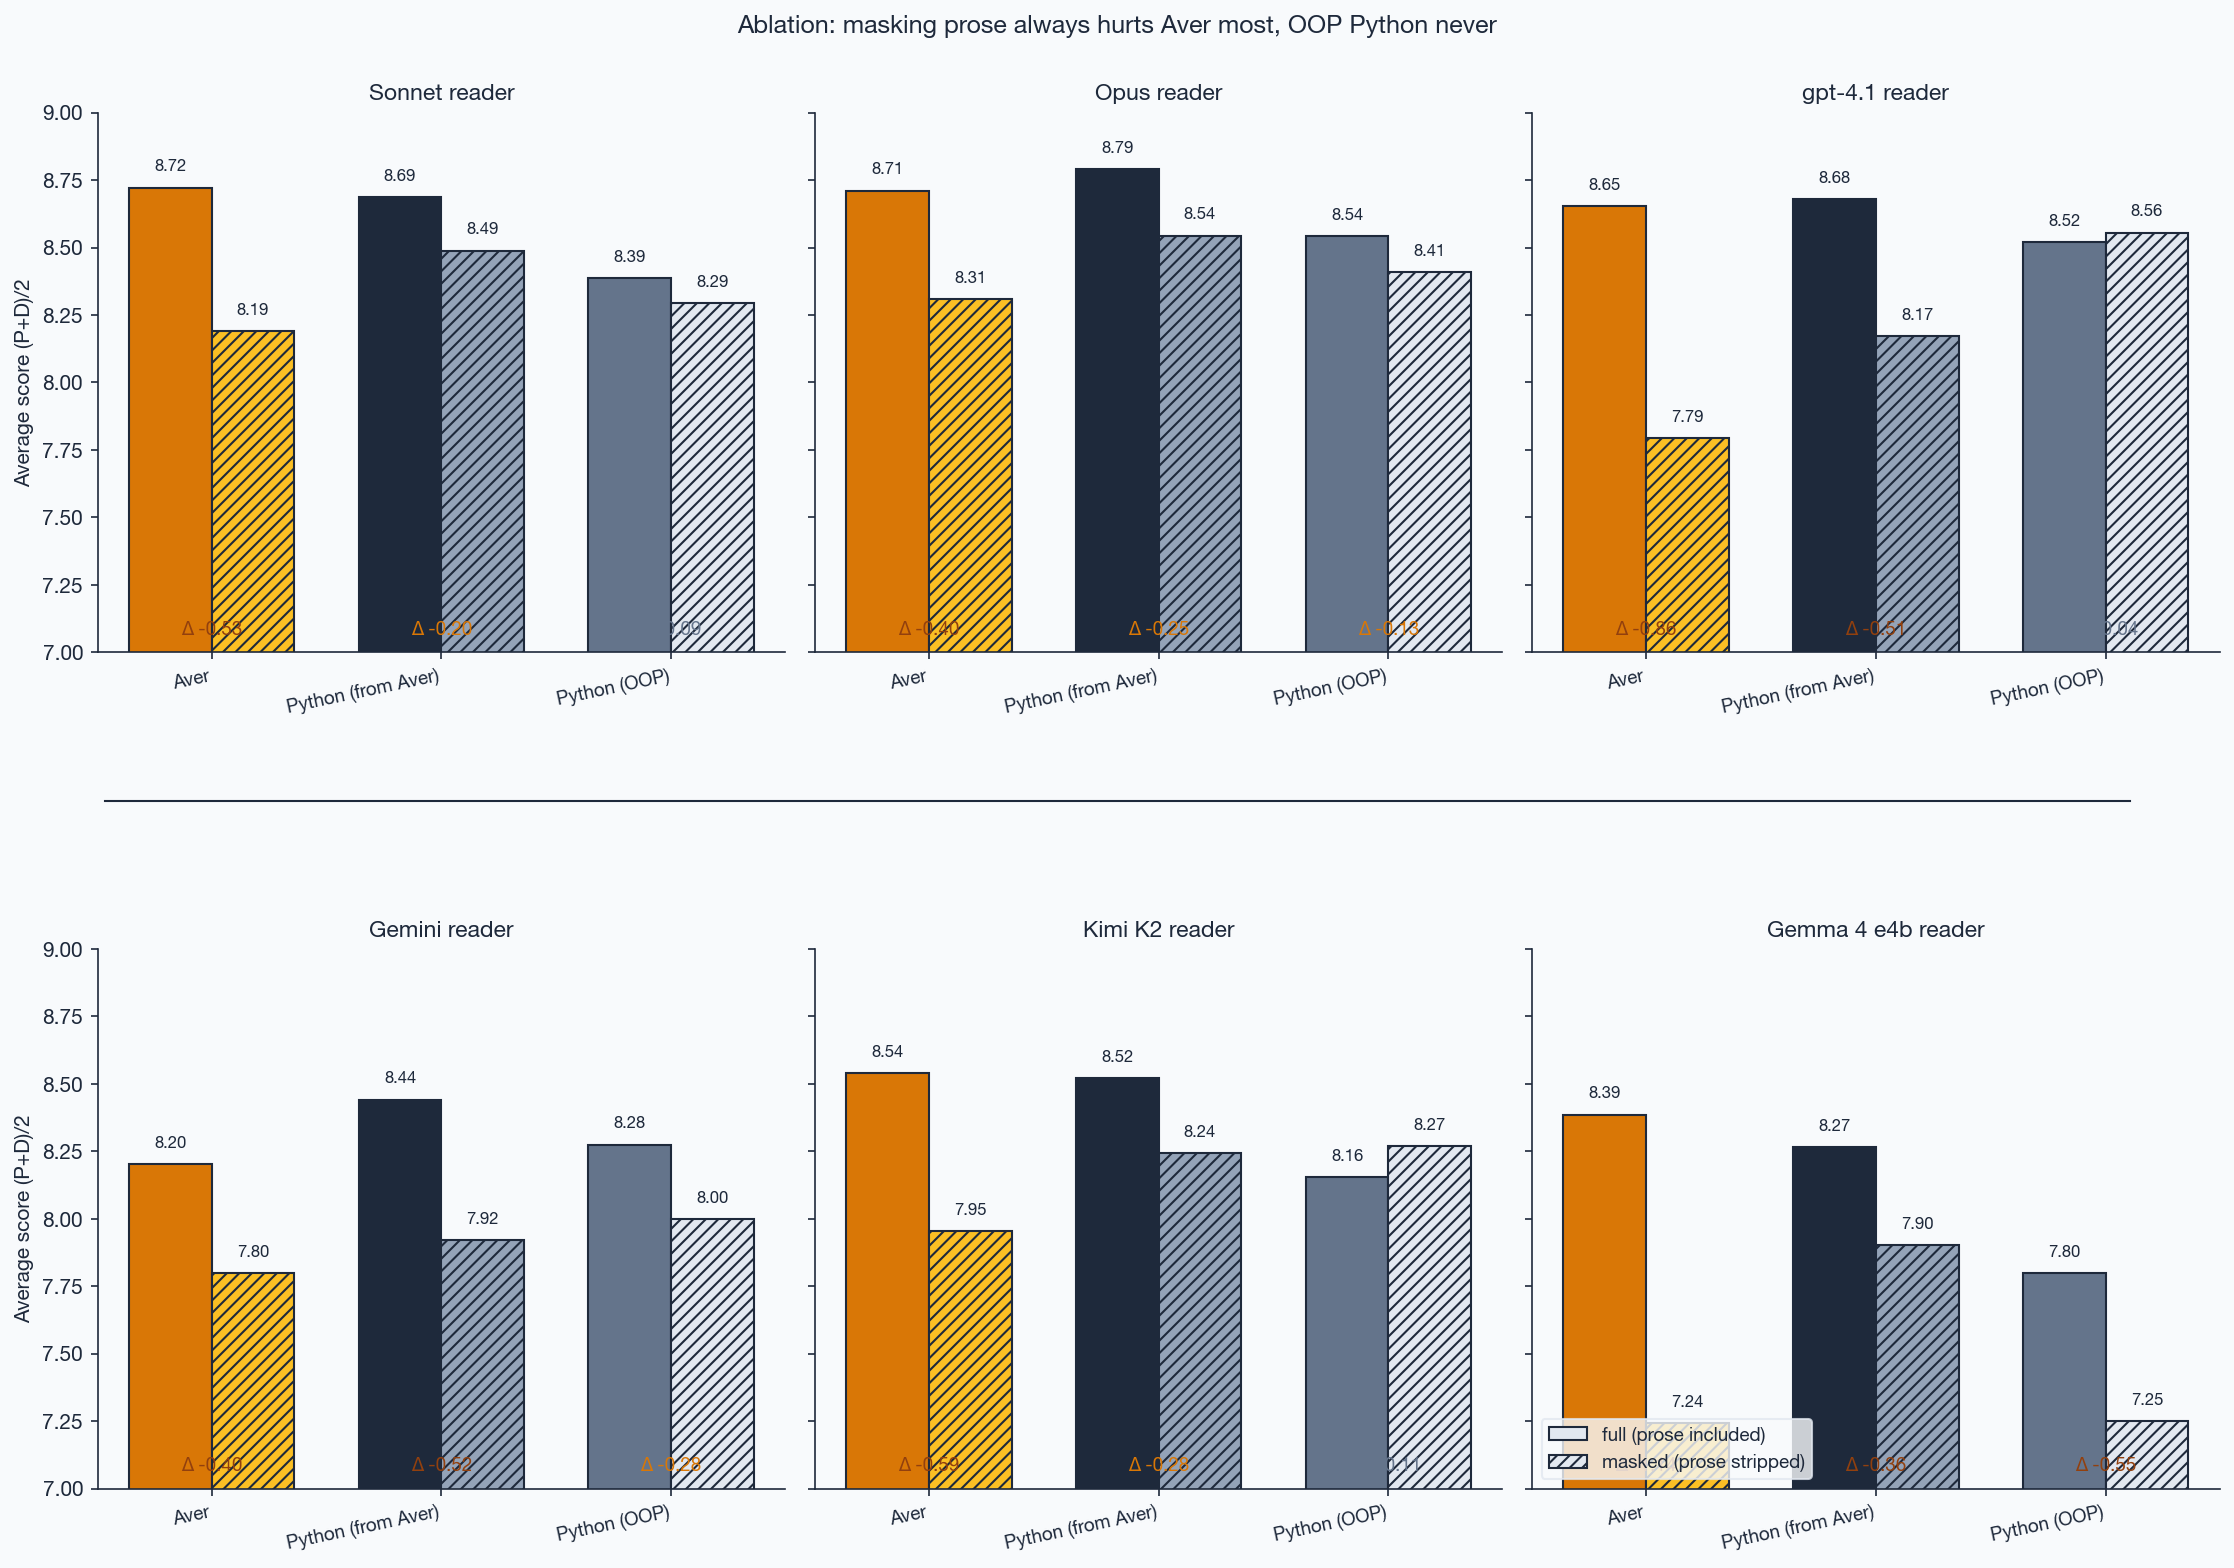
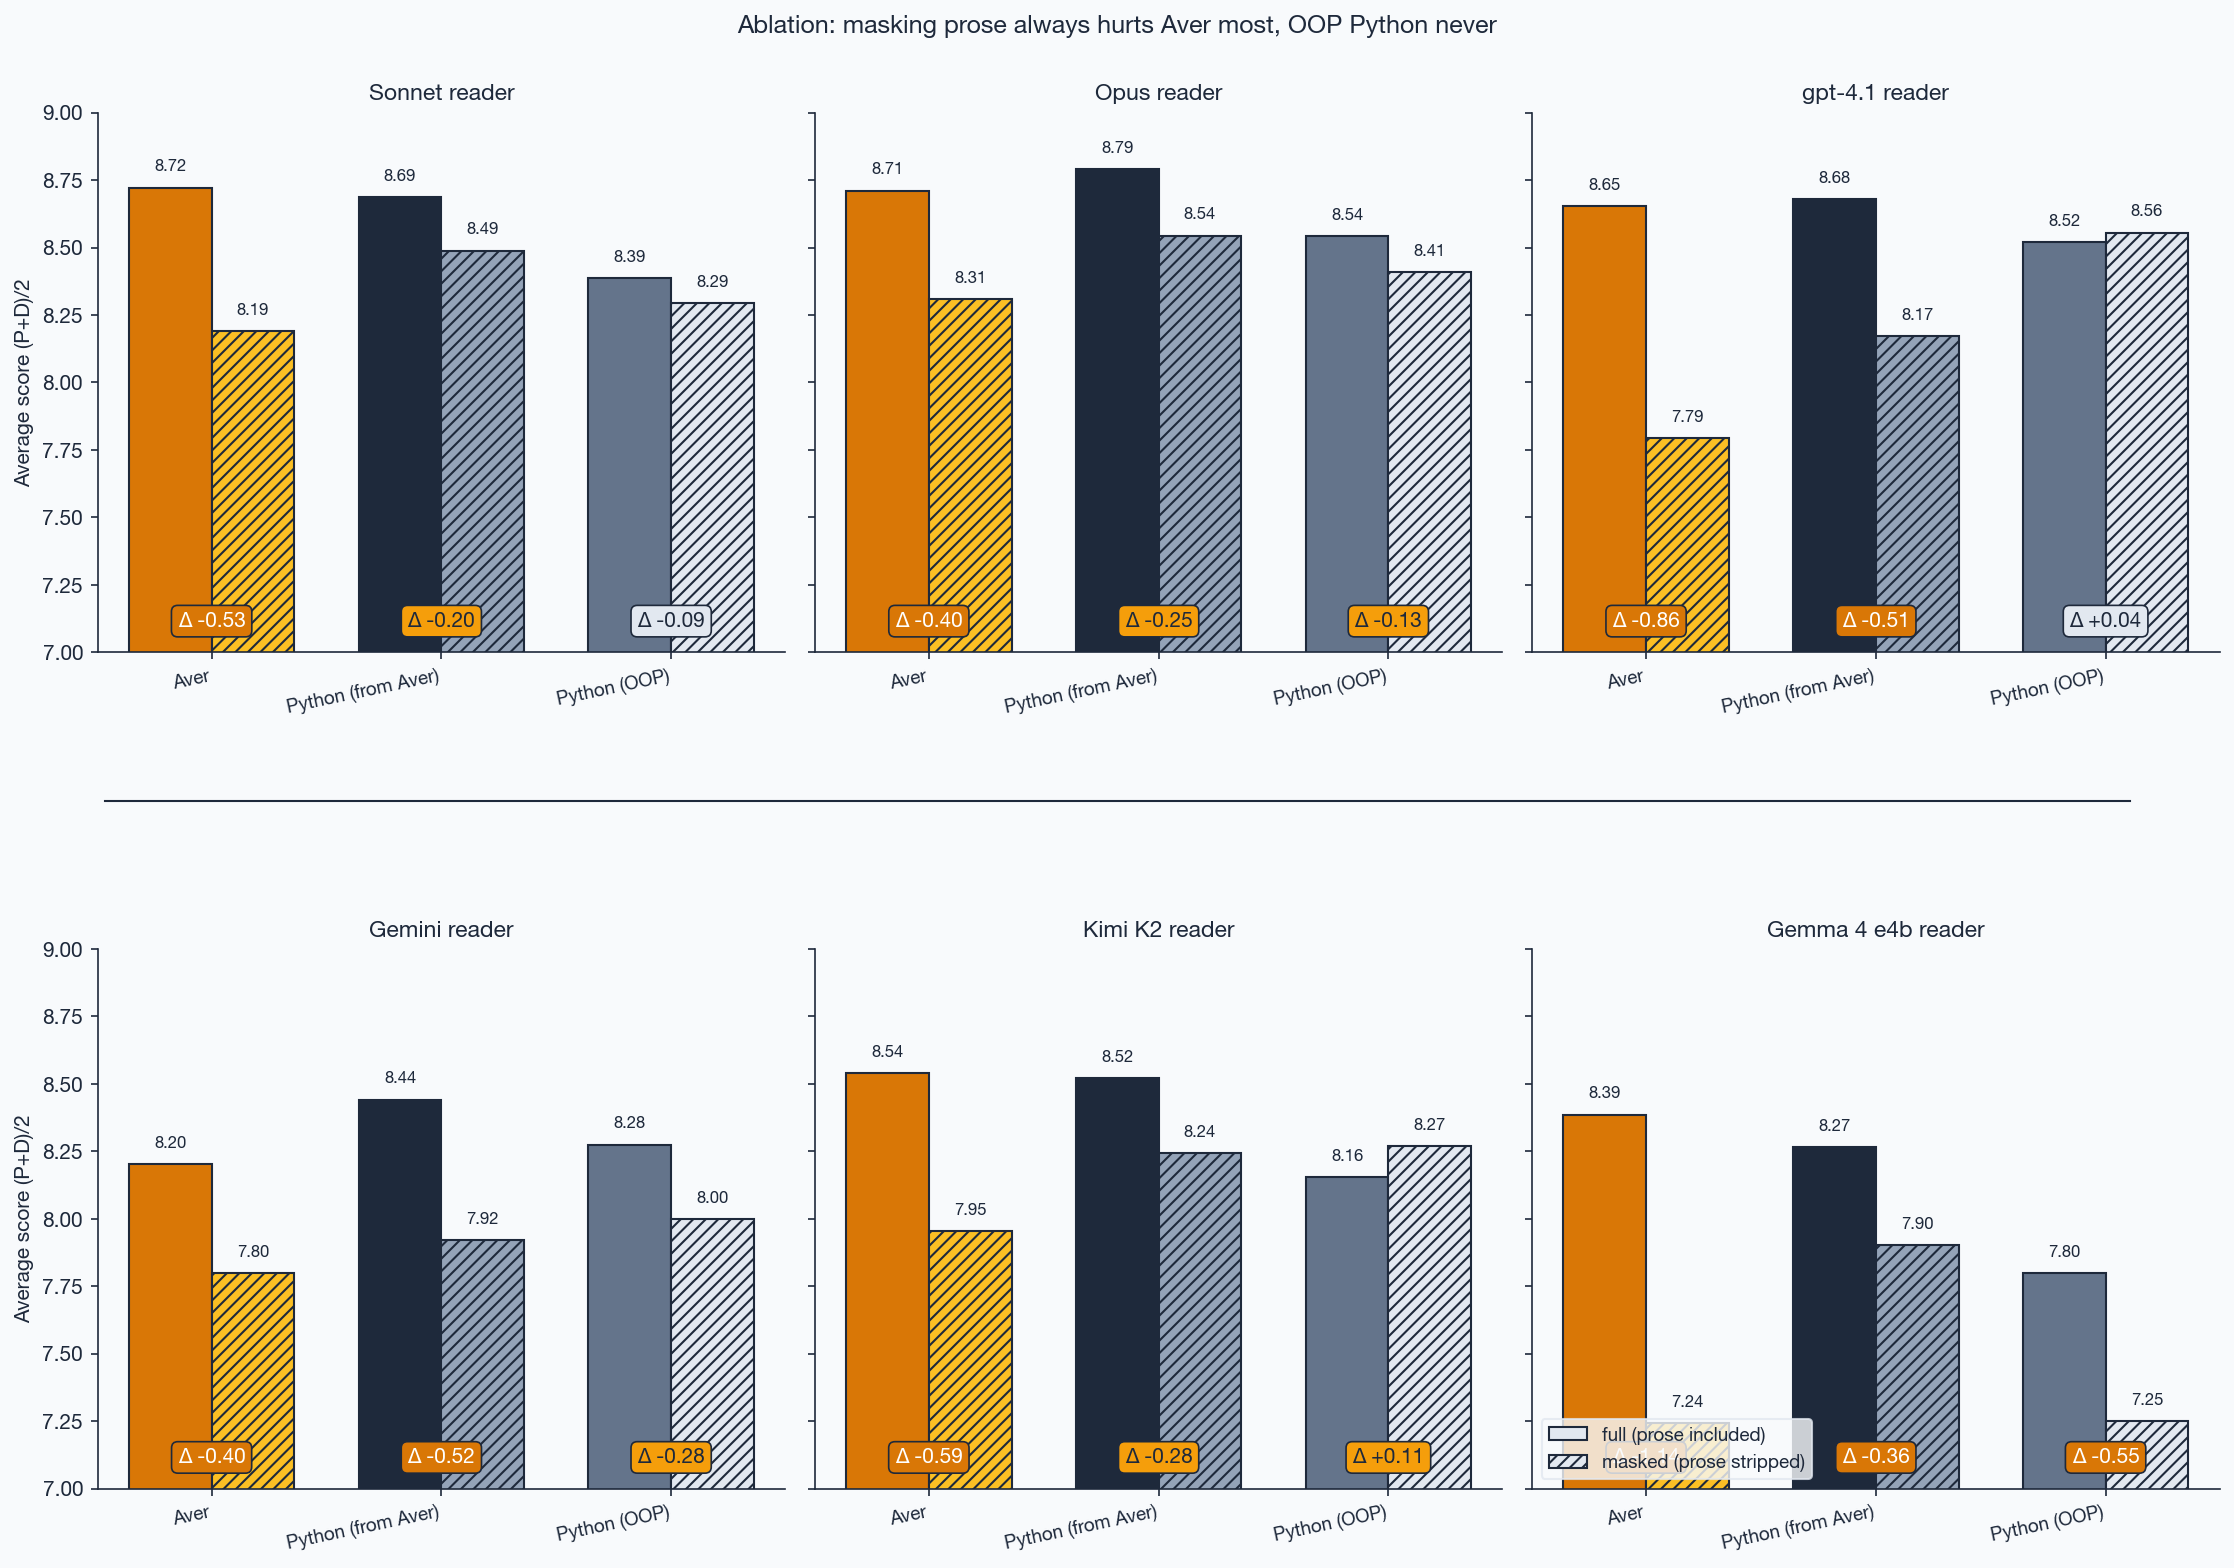
ablation_all_readers: delta badges with colored bbox
Matches the thinking_probe.png treatment: rounded bounding-box behind each
Δ label, colored by magnitude (amber/white for |Δ|≥0.30, amber_light for
0.10–0.30, slate_light for <0.10). Previously the bare text was invisible
on amber bars.

diff --git a/scripts/plot_judge_bias.py b/scripts/plot_judge_bias.py
@@ -304,11 +304,18 @@ def ablation_all_readers(out_path: Path) -> None:
         for bar, v in zip(b2, mask_vals):
             ax.text(bar.get_x() + bar.get_width() / 2, v + 0.05, f"{v:.2f}",
                     ha="center", va="bottom", fontsize=8, color=SLATE)
-        # Delta below each pair (amber intensity = drop size)
+        # Delta badges: bounding-box labels, visible regardless of bar height
         for i, d in enumerate(deltas):
-            color = AMBER_DARK if d < -0.3 else (AMBER if d < -0.1 else SLATE_MUTED)
-            ax.text(i, 7.05, f"Δ {d:+.2f}", ha="center", va="bottom",
-                    fontsize=9, fontweight="bold", color=color)
+            if abs(d) >= 0.30:
+                bg, fg = AMBER, "white"
+            elif abs(d) >= 0.10:
+                bg, fg = AMBER_LIGHT, SLATE
+            else:
+                bg, fg = SLATE_LIGHT, SLATE
+            ax.text(i, 7.08, f"Δ {d:+.2f}", ha="center", va="bottom",
+                    fontsize=10, fontweight="bold", color=fg,
+                    bbox=dict(boxstyle="round,pad=0.3", facecolor=bg,
+                              edgecolor=SLATE, linewidth=0.8))
 
         ax.set_xticks(x)
         ax.set_xticklabels([LANG_LABELS[l] for l in langs], rotation=12, ha="right", fontsize=9)
